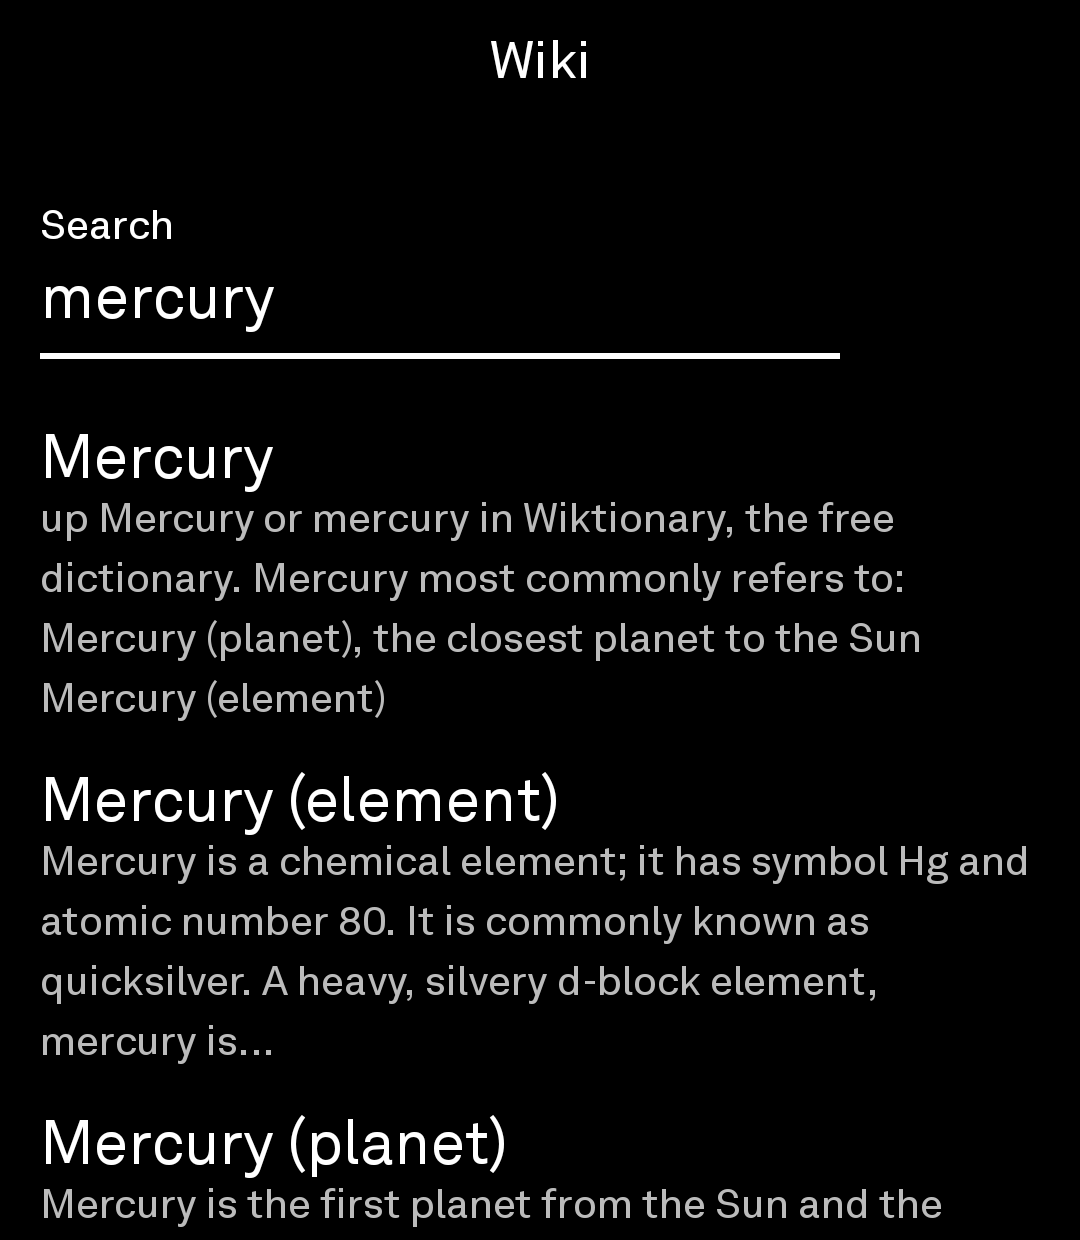
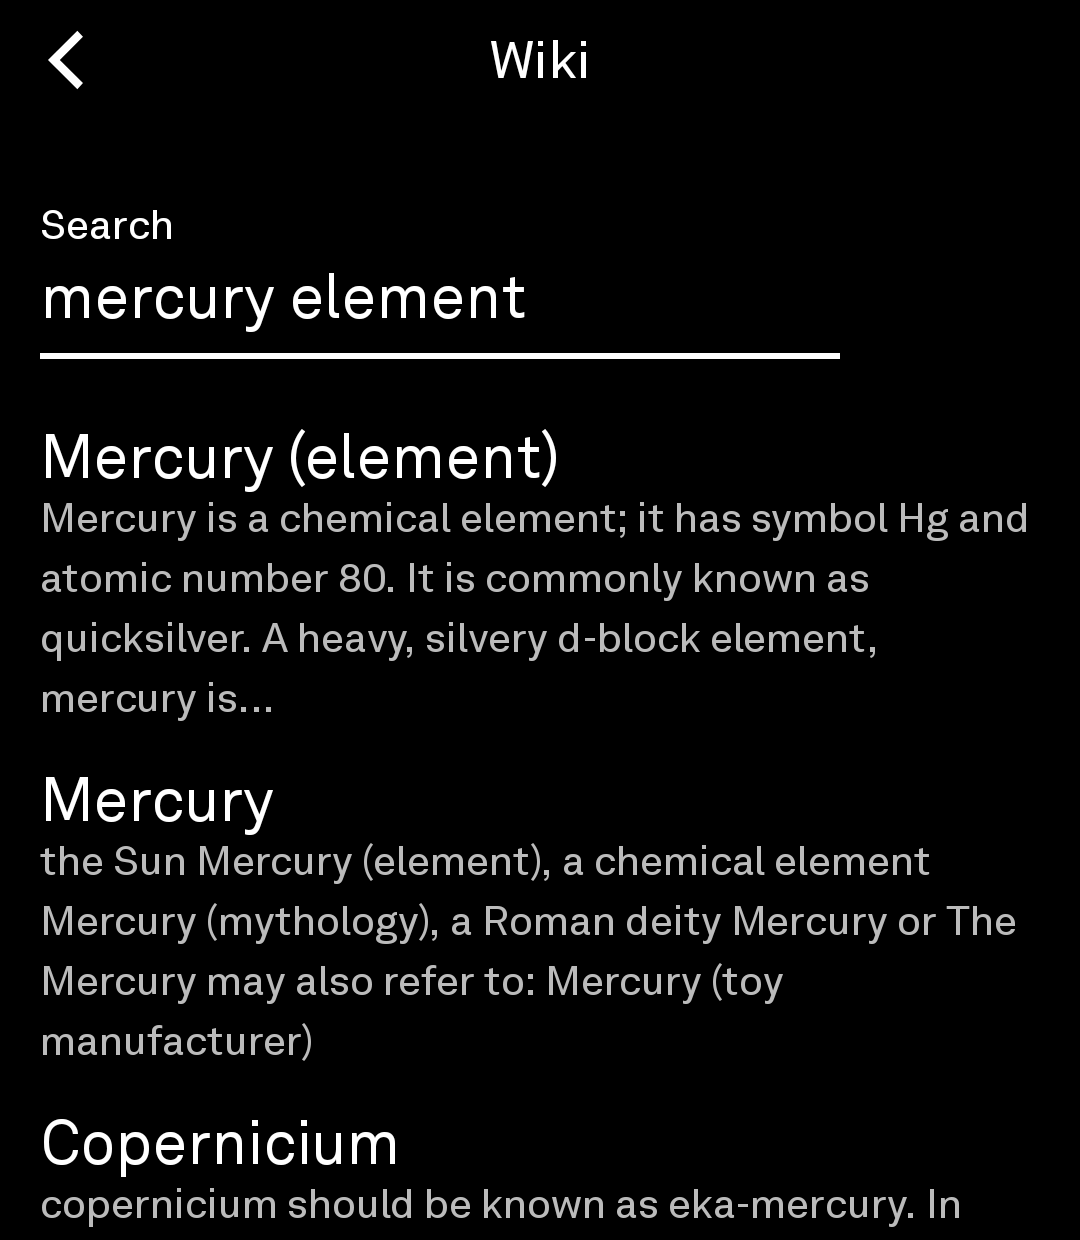
feat: default to smallest text scale; clear-search chevron
- SCALE_DEFAULT = SCALE_MIN (80) per Tyler amendment (was May D6 110),
  test-first
- Search top bar gains a chevron when a query is active: clears query
  and results back to idle (no way off the results state before)
- both verified on TLP301 after pm clear; screenshots 03/05 retaken
- 141 tests green

diff --git a/tool/src/main/kotlin/dev/tyler/wiki/ui/SearchScreen.kt b/tool/src/main/kotlin/dev/tyler/wiki/ui/SearchScreen.kt
@@ -21,6 +21,7 @@ import com.thelightphone.sdk.LightScreen
 import com.thelightphone.sdk.LightViewModel
 import com.thelightphone.sdk.SealedLightActivity
 import com.thelightphone.sdk.rememberKeyboardOptions
+import com.thelightphone.sdk.ui.LightBarButton
 import com.thelightphone.sdk.ui.LightIcons
 import com.thelightphone.sdk.ui.LightText
 import com.thelightphone.sdk.ui.LightTextField
@@ -126,6 +127,15 @@ class SearchViewModel : LightViewModel<Unit>() {
     fun navConsumed() {
         navTarget.value = null
         mode.value = settled
+    }
+
+    /** Clears the query and its results, returning to the idle hint state. */
+    fun clearSearch() {
+        if (mode.value is Mode.Loading) return // don't yank state mid-flight
+        navTarget.value = null
+        query.value = ""
+        settled = Mode.Idle
+        mode.value = Mode.Idle
     }
 }
 
@@ -255,8 +265,21 @@ class SearchScreen(sealedActivity: SealedLightActivity) :
 
     @Composable
     private fun SearchFrame(query: String, body: @Composable () -> Unit) {
+        // A settled search (results/empty/error) gets a back chevron that
+        // clears the query and its results — without it there is no way off
+        // the results state, since Search is the initial screen.
+        val clearable = query.isNotBlank()
         Column(modifier = Modifier.fillMaxSize()) {
             LightTopBar(
+                leftButton = if (clearable) {
+                    LightBarButton.LightIcon(
+                        icon = LightIcons.BACK,
+                        onClick = viewModel::clearSearch,
+                        contentDescription = "Clear search",
+                    )
+                } else {
+                    null
+                },
                 center = LightTopBarCenter.Text("Wiki"),
                 modifier = Modifier.padding(bottom = 1f.gridUnitsAsDp()),
             )

diff --git a/tool/src/test/kotlin/dev/tyler/wiki/ui/render/ArticleTypographyTest.kt b/tool/src/test/kotlin/dev/tyler/wiki/ui/render/ArticleTypographyTest.kt
@@ -30,6 +30,13 @@ class ArticleTypographyTest {
     }
 
     @Test
+    fun `default scale is the smallest size`() {
+        // Tyler amendment 2026-07-29 (supersedes the May D6 110 default).
+        assertEquals(ArticleTypography.SCALE_MIN, ArticleTypography.SCALE_DEFAULT)
+        assertEquals(80, ArticleTypography.SCALE_DEFAULT)
+    }
+
+    @Test
     fun `scale steps by ten and clamps at both bounds`() {
         assertEquals(120, ArticleTypography.stepUp(110))
         assertEquals(180, ArticleTypography.stepUp(180))

diff --git a/tool/src/main/kotlin/dev/tyler/wiki/ui/render/ArticleTypography.kt b/tool/src/main/kotlin/dev/tyler/wiki/ui/render/ArticleTypography.kt
@@ -17,7 +17,9 @@ object ArticleTypography {
     const val SCALE_MIN = 80
     const val SCALE_MAX = 180
     const val SCALE_STEP = 10
-    const val SCALE_DEFAULT = 110
+
+    /** Tyler amendment 2026-07-29: open at the smallest size (was the May D6 110). */
+    const val SCALE_DEFAULT = SCALE_MIN
 
     fun headingEm(level: Int): Float = when (level) {
         2 -> 1.35f

diff --git a/CLAUDE.md b/CLAUDE.md
@@ -82,7 +82,7 @@ Two structural rules that govern every milestone:
 
 1. **SearchScreen** (`@InitialScreen`) — `LightTopBar` "Wiki"; `LightTextField` (read-only display) opens `LightTextInputEditor` (full-screen, weather pattern). Submit → ≤20 result rows (title + snippet). States: idle (hint copy), loading, results, empty ("No articles found."), error+Retry.
 2. **DisambiguationScreen** — chooser list (title + description); tap → ArticleScreen. Bounded; the app's only navigation surface.
-3. **ArticleScreen** — `LightTopBar` ellipsized title; `LazyColumn` of rendered blocks; bottom bar small-A/large-A `LightBarButton`s (text scale 80–180 step 10, default 110, persisted; no reload, no scroll jump). Back pops the article stack (chooser round-trips preserved), then Search.
+3. **ArticleScreen** — `LightTopBar` ellipsized title; `LazyColumn` of rendered blocks; bottom bar small-A/large-A `LightBarButton`s (text scale 80–180 step 10, default 80 — Tyler amendment 2026-07-29, was 110 — persisted; no reload, no scroll jump). Back pops the article stack (chooser round-trips preserved), then Search.
 
 Flow: Search → submit → if disambiguation → chooser → article; else article directly. Process death → Search (by design: no history, in-memory back stack).
 
@@ -128,6 +128,15 @@ Wiki is a single-purpose reference tool. **Not browser-adjacent:** 100% native C
 - Don't use Claude Design or its "Handoff to Claude Code" export (emits React, not Compose) — standing house rule.
 
 ## Implementation notes
+
+### Post-M7 amendments (2026-07-29, Tyler)
+
+- **Back affordance** (PR #9): `LightTopBar` back chevron on Disambiguation and Article screens (weather idiom) — gap found on hardware; adb KEYCODE_BACK had masked that the LP3 has no hardware back. Chevron round-trip verified on TLP301.
+- **Default text scale = 80** (smallest; supersedes the May D6 110): `SCALE_DEFAULT = SCALE_MIN`, test-first.
+- **Clear-search chevron** on the Search top bar whenever a query is active — clears query + results back to the idle hint (there was no way off the results state; Search is the initial screen). Both verified on TLP301 after `pm clear`; screenshots 03/05 retaken (results chevron; article at the new default).
+- Display-math decision recorded (exclusions §10.5): v1 ships with display equations dropped; PNG-endpoint rendering is backlog #1.
+- Confirmed with Tyler: search history and favorites/lists stay excluded (Never list, D10) — they are the defense's “no state designed to be checked again” line.
+
 
 ### M7 (2026-07-29)
 
